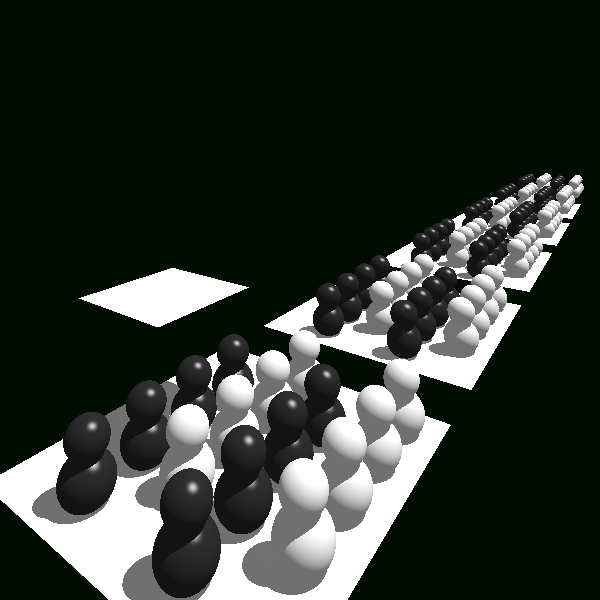
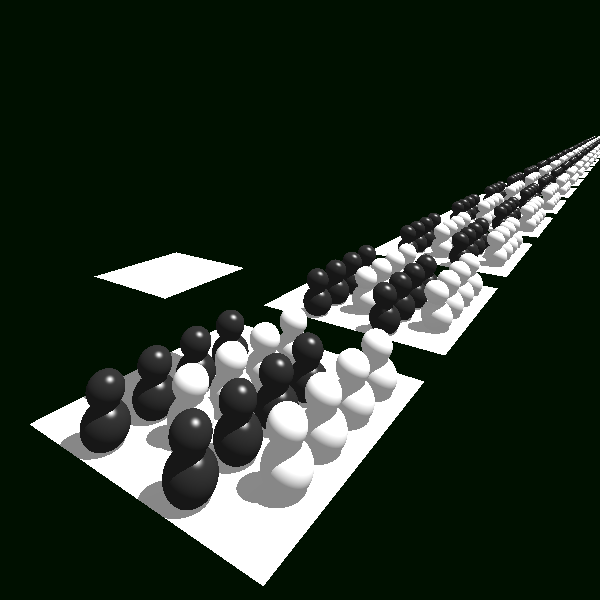
a04 besseren

diff --git a/src/cgg/A04.java b/src/cgg/A04.java
@@ -20,7 +20,7 @@ public class A04 {
     
     public static void main(String[] args){
 
-        Vec3 cameraPos = new Vec3(23,25,-68);  // 平移，Y越大越高，Z越负越远
+        Vec3 cameraPos = new Vec3(27,25,-72);  // 平移，Y越大越高，Z越负越远
         Vec3 cameraTarget = new Vec3(15,10, -22); // 看向场景中心
         SimpleCamera camera = new SimpleCamera(Math.PI / 3, 600, 600, cameraPos, cameraTarget);
 
@@ -28,7 +28,7 @@ public class A04 {
         List<Shape> scene = new ArrayList<>();
 
         // 循环创建多个4×4雪人矩阵
-        int matrixCount = 6; // 要创建的矩阵数量（比如4个）
+        int matrixCount = 20; // 要创建的矩阵数量
         double matrixSpacing = 30; // 矩阵之间的前后间距
 
         for (int i = 0; i < matrixCount; i++) {
@@ -54,7 +54,7 @@ public class A04 {
 
             // 创建正方形地面
             Quader box = new Quader(24, new Color(0.9, 0.1, 0.1)); 
-            Mat44 boxTrans = Mat44.translate(-1, 0.4, -50); // 这里的坐标是相对于当前矩阵的偏移
+            Mat44 boxTrans = Mat44.translate(-1, 0.4, -19); // 这里的坐标是相对于当前矩阵的偏移
             box.setTransform(boxTrans);
             snowmanMatrixGroup.addChild(box); // 加入当前矩阵组
 
